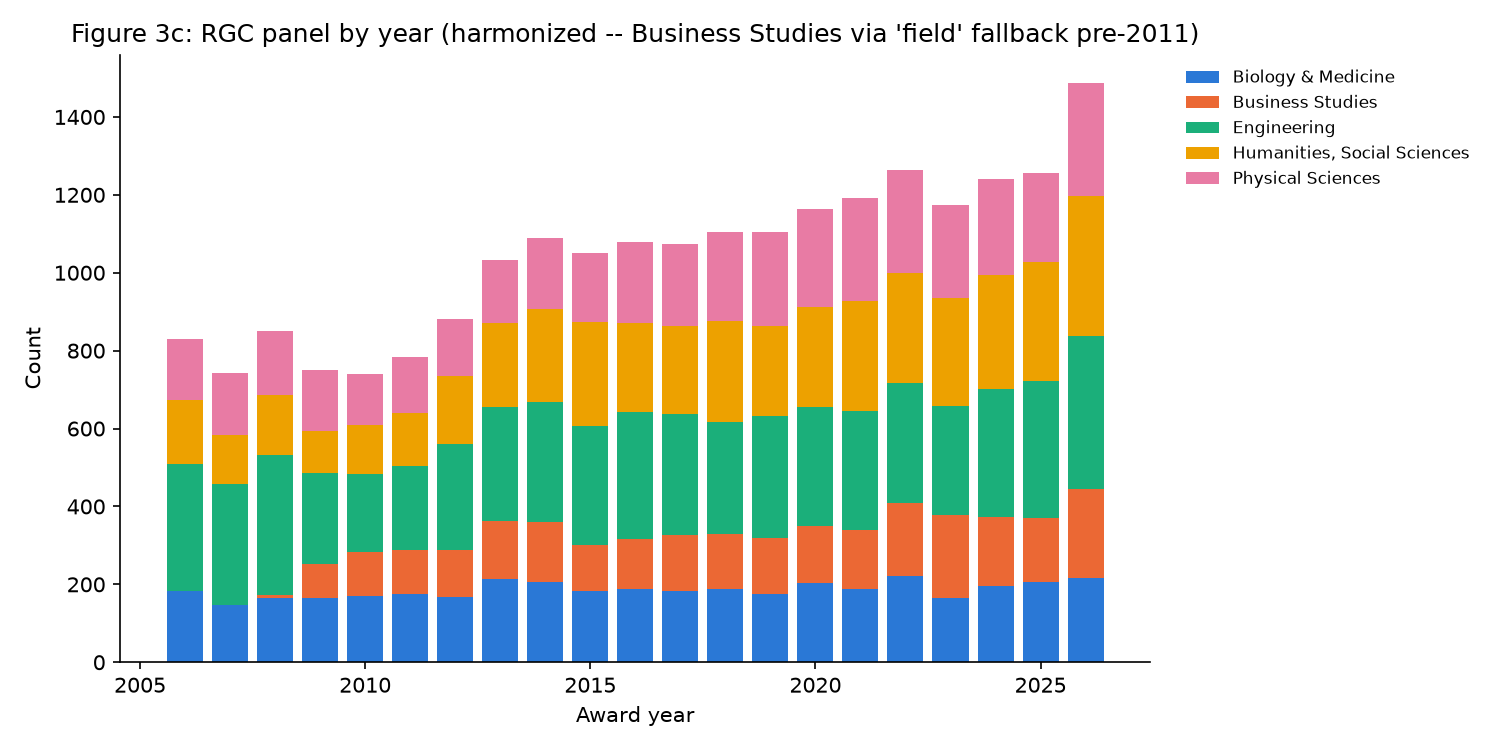
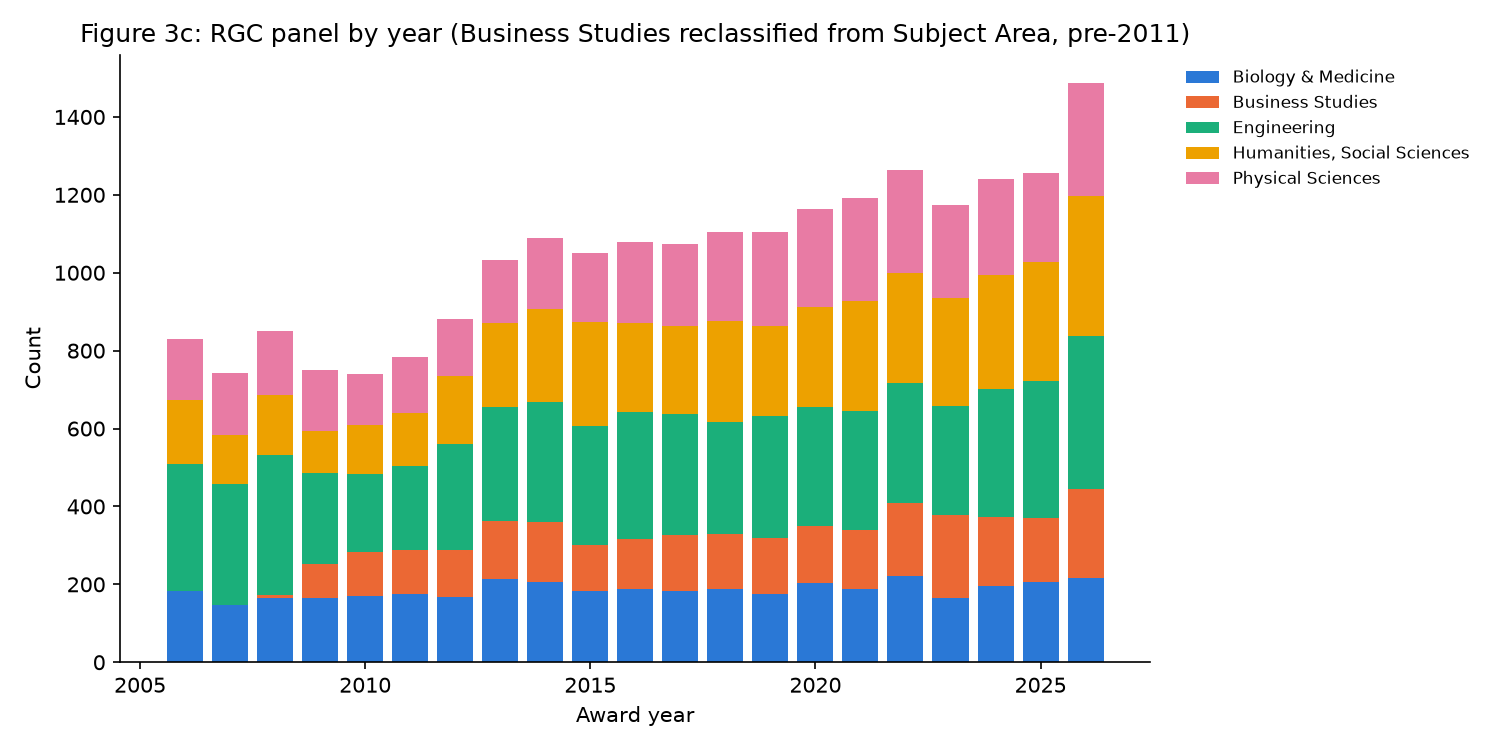
rgc: clarify Figure 3c title and document the verified root cause
Verified directly against a live RGC project detail page (149008):
Panel and Subject Area are genuinely separate fields on the page
itself, not a parser artifact. Business Studies only became its own
top-level Panel value from ~2011 onward; before that it's filed as a
Subject Area under the Humanities, Social Sciences panel. Also notes
the RGC search-form quirk where the "Panel" dropdown actually searches
across both fields. Retitles Figure 3c using RGC's own terminology
("Subject Area" instead of the internal 'field' column name) and
expands the reports README with the full verification trail.

Claude-Session: https://claude.ai/code/session_01Ks4BmRcUQE58NRuDUQSFgf

Changed region(s): [[0.0307, 0.0307, 0.7973, 0.0613]]

diff --git a/scripts/rgc/pre_matching_checks.py b/scripts/rgc/pre_matching_checks.py
@@ -142,13 +142,14 @@ def figure_category_distribution(df: pd.DataFrame, out_dir: Path):
 
 
 def figure_panel_harmonized(df: pd.DataFrame, out_dir: Path):
-    """Supplementary chart, not a replacement for fig3b. RGC recorded Business
-    Studies as a sub-field under the 'Humanities, Social Sciences' panel before
-    splitting it into its own top-level panel around 2011 (confirmed against
-    RGC's live site and the raw scraped records -- see reports README). This
-    harmonizes panel using field as a fallback so Business Studies reads
-    consistently across the full year range; fig3b is left untouched as the
-    literal, unmodified panel column."""
+    """Supplementary chart, not a replacement for fig3b. Confirmed directly
+    against a live RGC project detail page: before ~2011, Business Studies
+    projects are filed with Panel="Humanities, Social Sciences" and Subject
+    Area="Business Studies" (the 'field' column here); RGC only made Business
+    Studies its own top-level Panel value from ~2011 onward. This reclassifies
+    those pre-2011 records as Business Studies so the chart reads consistently
+    across the full year range; fig3b is left untouched as the literal,
+    unmodified Panel column exactly as RGC's own pages print it."""
     if "panel" not in df.columns or "field" not in df.columns:
         return
 
@@ -164,7 +165,7 @@ def figure_panel_harmonized(df: pd.DataFrame, out_dir: Path):
         bottom = bottom + pivot[category]
     ax.set_xlabel("Award year")
     ax.set_ylabel("Count")
-    ax.set_title("Figure 3c: RGC panel by year (harmonized -- Business Studies via 'field' fallback pre-2011)")
+    ax.set_title("Figure 3c: RGC panel by year (Business Studies reclassified from Subject Area, pre-2011)")
     ax.legend(frameon=False, bbox_to_anchor=(1.02, 1), loc="upper left", fontsize=8)
     ax.spines[["top", "right"]].set_visible(False)
     fig.tight_layout()

diff --git a/reports/pre_matching_checks/README.md b/reports/pre_matching_checks/README.md
@@ -16,19 +16,30 @@ HSSPFS) from 2012 onward. This is RGC's own search-code behavior, not a
 collection gap -- pre-2012 data in this project is GRF-only by design.
 
 **"Business Studies" panel (Figure 3b) shows zero count before 2011.**
-Investigated and resolved -- NOT a collection gap. Verified against RGC's live
-site (Award Year 2008/09, Panel = Business Studies, Funding Scheme = General
-Research Fund returns 8 records) and cross-checked against the scraped data:
-all 8 project IDs (149008, 149808, 640808, 642908, 643908, 644008, 741608,
-755108) are present. They are recorded with `panel = "Humanities, Social
-Sciences"` and `field = "Business Studies"`, exactly as shown on RGC's own
-project detail pages for that era -- Business Studies was a sub-field under
-the Humanities, Social Sciences panel before RGC split it into its own
-top-level panel (~2011 onward). Same pattern confirmed for 2009 (87 records)
-and 2010 (113 records), all under `field = "Business Studies"`.
+Investigated and resolved -- NOT a collection gap. RGC's project pages have two
+separate classification fields: Panel (broad) and Subject Area (narrow,
+stored in this project's `field` column). Confirmed directly against a live
+RGC project detail page (Project 149008, Award Year 2008/09): it literally
+prints `Panel: Humanities, Social Sciences` and `Subject Area: Business
+Studies`. Cross-checked against the scraped data: all 8 project IDs from an
+RGC site search for Award Year 2008/09 + Panel=Business Studies + Funding
+Scheme=General Research Fund (149008, 149808, 640808, 642908, 643908, 644008,
+741608, 755108) are present with exactly this panel/field combination. Same
+pattern confirmed for 2009 (87 records) and 2010 (113 records). RGC only made
+Business Studies its own top-level Panel value from ~2011 onward; before that
+it only ever appears as a Subject Area under the Humanities, Social Sciences
+panel.
+
+Note: RGC's own search form is inconsistent here -- its "Panel" dropdown
+actually searches across both Panel and Subject Area (that's how the above
+search found pre-2011 records despite their stored Panel value being
+"Humanities, Social Sciences"), even though the field label implies it only
+searches the Panel column. This is a quirk of RGC's site, not of this
+project's collection or parsing.
 
 Consequence for analysis: a panel-only breakdown undercounts Business Studies
-for 2008-2010. Any analysis that needs a consistent panel grouping across the
-full 2006-2026 range should treat `field == "Business Studies"` as equivalent
-to `panel == "Business Studies"` for those years, or otherwise harmonize the
-two columns rather than using `panel` alone.
+for 2008-2010. Figure 3c (`fig3c_panel_harmonized_by_year.png`) reclassifies
+any record with Subject Area = "Business Studies" as Panel = "Business
+Studies" for charting purposes, so Business Studies reads consistently across
+the full 2006-2026 range. Figure 3b is left untouched as RGC's literal,
+unmodified Panel column.
